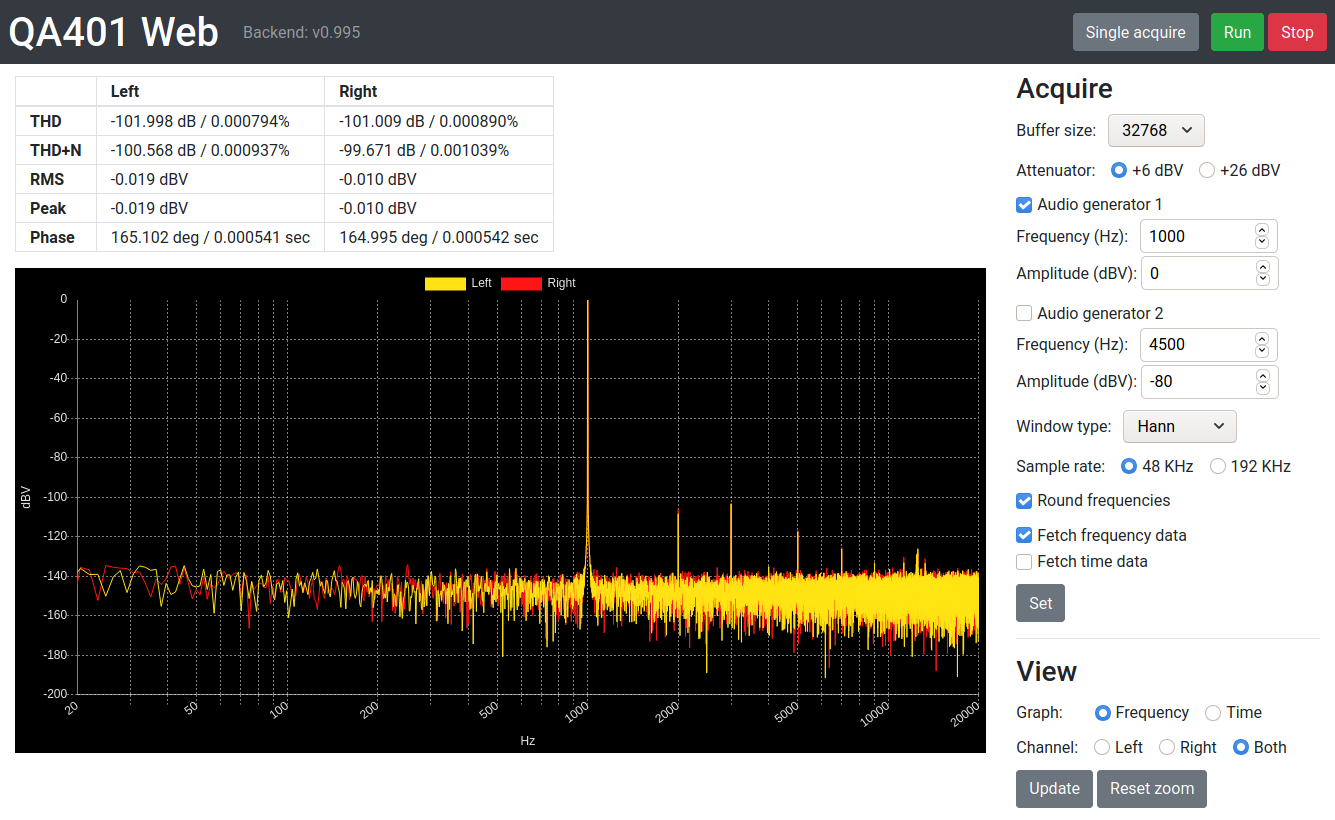
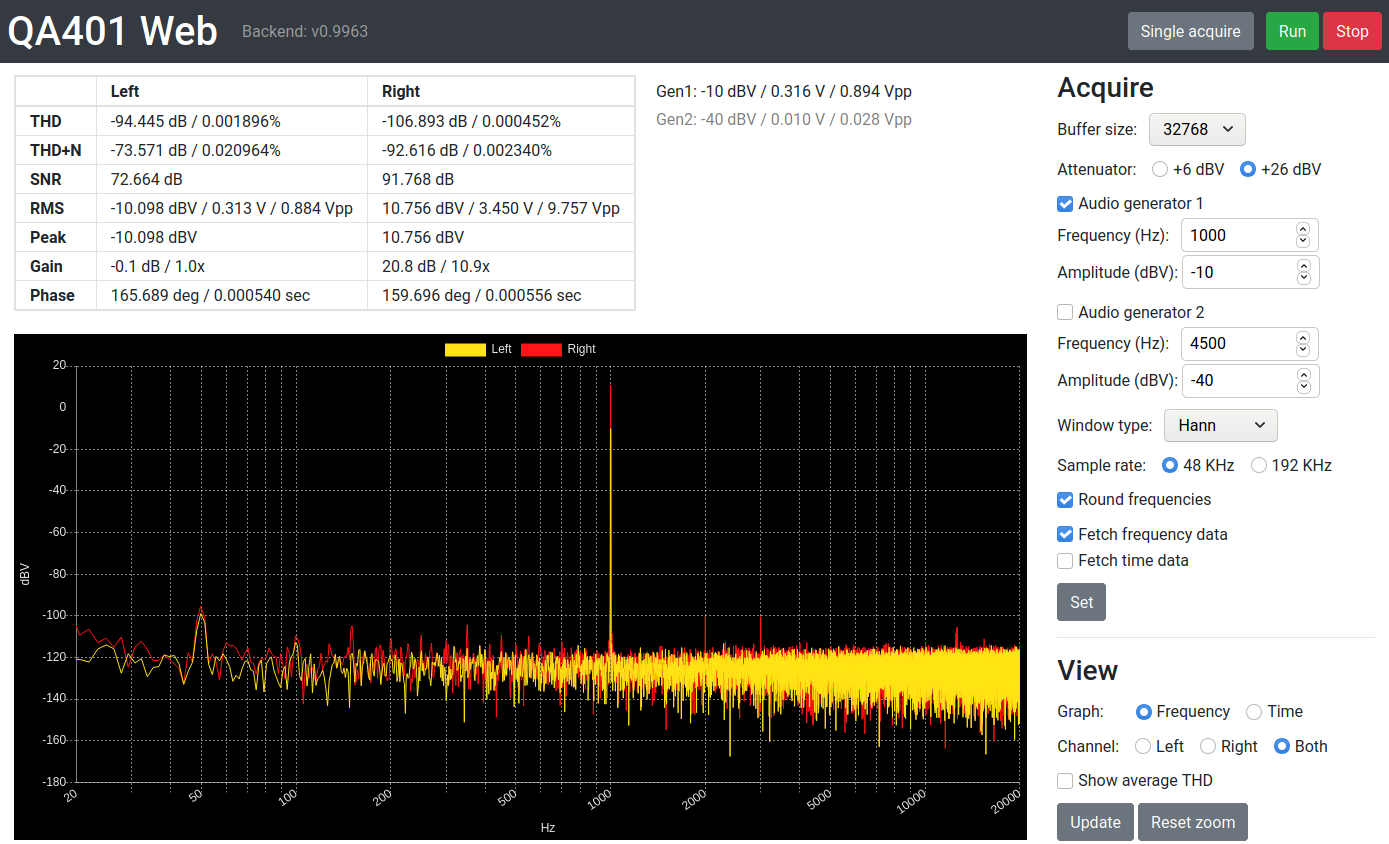
Update readme and screenshot

Changed region(s): [[0.0, 0.0, 1.0, 1.0], [0.9213, 0.2439, 0.9521, 0.3659], [0.6142, 0.4268, 0.6449, 0.5488]]

diff --git a/README.md b/README.md
@@ -4,11 +4,14 @@ Simple web interface for usage with the [QA401H](https://github.com/QuantAsylum/
 
 ![Screenshot](img/qa401w.png)
 
-Due to missing CORS headers in the REST API it will not work by default. I currently use a [proxy](https://github.com/Shivam010/bypass-cors/) as a workaround.
+Example shows the left channel in loopback on the QA401 and the right channel through a preamp.
+
 
 ## How to use
 
-1. Download and start QA401H
+Due to missing CORS support in the REST API it will not work by default. I currently use a [proxy](https://github.com/Shivam010/bypass-cors/) as a workaround. This will be fixed in the next release of QA401H.
+
+1. Download and start QA401H v0.996 or newer
 2. Download/build/start a CORS bypass proxy
 3. Open [index.html](index.html) in the browser
 
